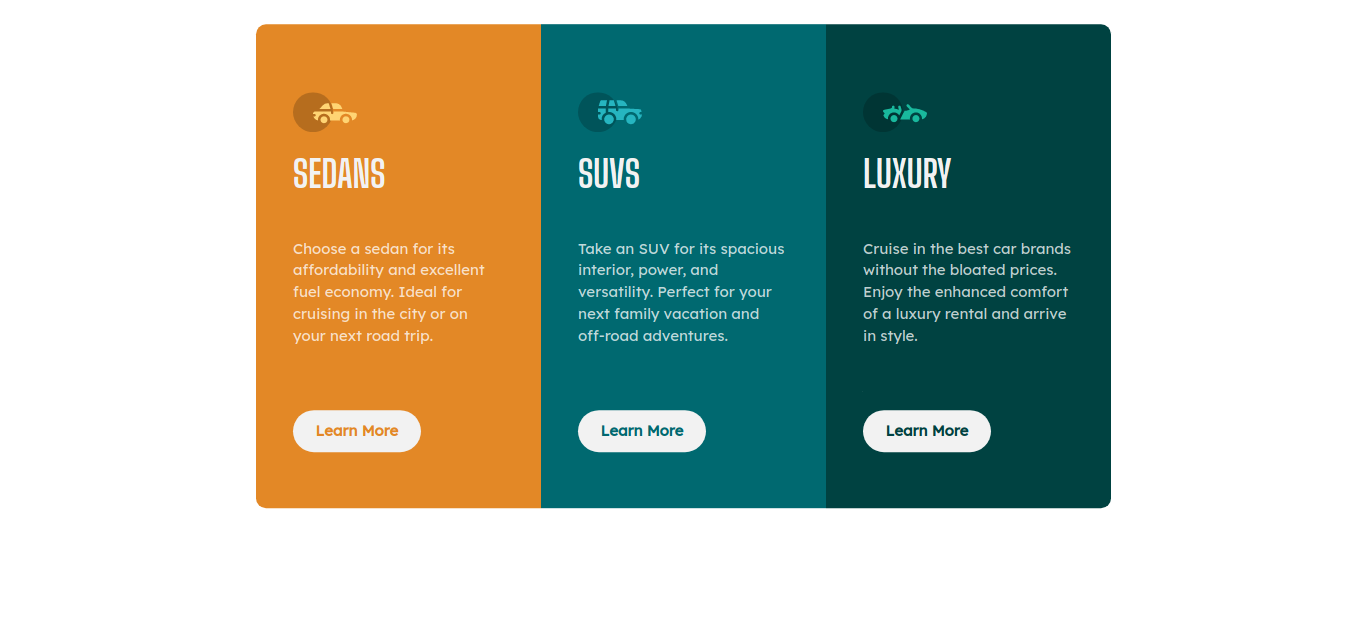
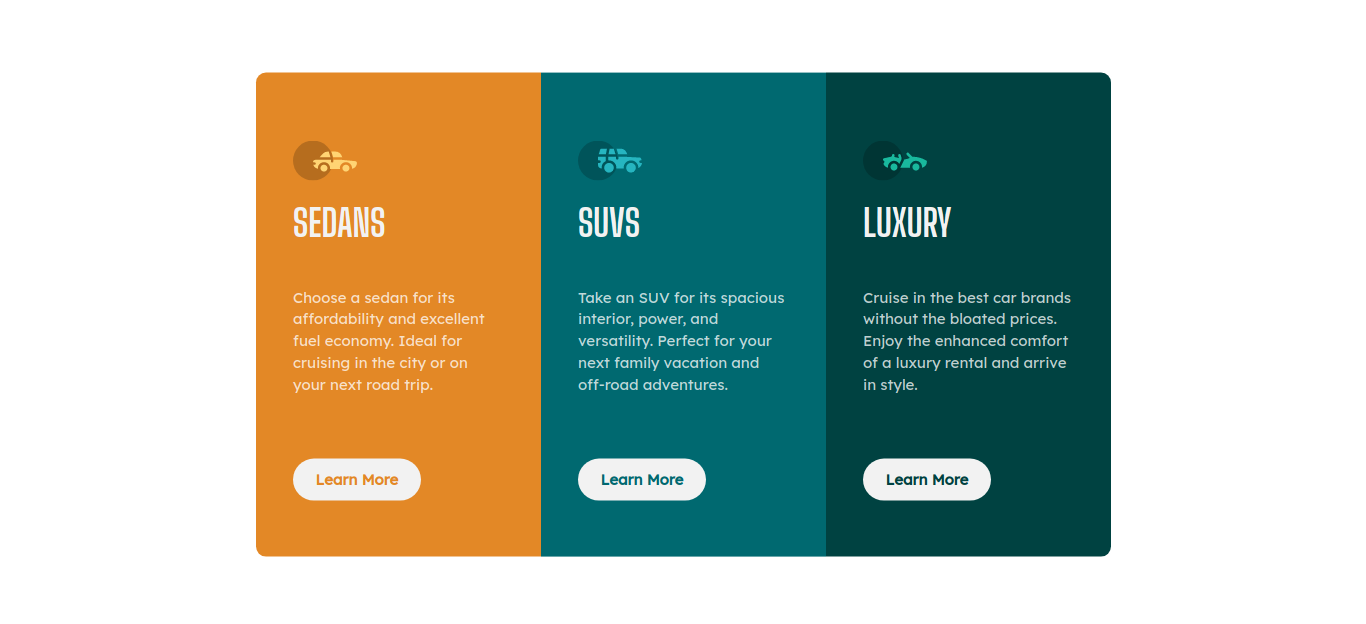
update code on index and style

diff --git a/index.html b/index.html
@@ -21,39 +21,39 @@
 
       <section class="section-sedans">
 
-        <div class="content-wrapper">
+        <section class="content-wrapper">
           <img src="images/icon-sedans.svg" alt="">
-          <h2>Sedans</h2>
+          <h1>Sedans</h1>
           <p>Choose a sedan for its affordability and excellent fuel economy. Ideal for cruising in the city
             or on your next road trip.</p>
           
-            <a href="#" learn-more-btn>Learn More</a>
-        </div>
+            <a href="#" class="learn-more-btn">Learn More</a>
+        </section>
 
       </section>
 
       <section class="section-suvs">
-        <div class="content-wrapper">
+        <section class="content-wrapper">
           <img src="images/icon-suvs.svg" alt="">
-          <h2>SUVs</h2>
+          <h1>SUVs</h1>
           <p>
             Take an SUV for its spacious interior, power, and versatility. Perfect for your next family vacation
             and off-road adventures.</p>
           
-            <a href="#" learn-more-btn>Learn More</a>
-        </div>
+            <a href="#" class="learn-more-btn">Learn More</a>
+        </section>
 
       </section>
 
       <section class="section-luxury">
-        <div class="content-wrapper">
+        <section class="content-wrapper">
           <img src="images/icon-luxury.svg" alt="">
-          <h2>Luxury</h2>
+          <h1>Luxury</h1>
           <p>Cruise in the best car brands without the bloated prices. Enjoy the enhanced comfort of a luxury
             rental and arrive in style.</p>
           
-          <a href="#" learn-more-btn>Learn More</a>
-        </div>
+          <a href="#" class="learn-more-btn">Learn More</a>
+        </section>
 
       </section>
 

diff --git a/css/style.css b/css/style.css
@@ -66,7 +66,7 @@ a {
     Typography
 ======================== */
 
-h2 {
+h1 {
     font-family: 'Big Shoulders Display', cursive;
     font-size: 2.5rem;
     margin-bottom: 1.125em;

diff --git a/README.md b/README.md
@@ -28,8 +28,8 @@ Users should be able to:
 
 ### Links
 
-- Solution URL: [Add solution URL here](https://www.frontendmentor.io/solutions/3-column-preview-card-component-BJjgr1iEc)
-- Live Site URL: [Add live site URL here](https://abasiekong.github.io/3-column-preview-card-component/)
+- Solution URL: [(https://www.frontendmentor.io/solutions/3-column-preview-card-component-BJjgr1iEc)]
+- Live Site URL: [(https://abasiekong.github.io/3-column-preview-card-component/)]
 
 ## My process
 
